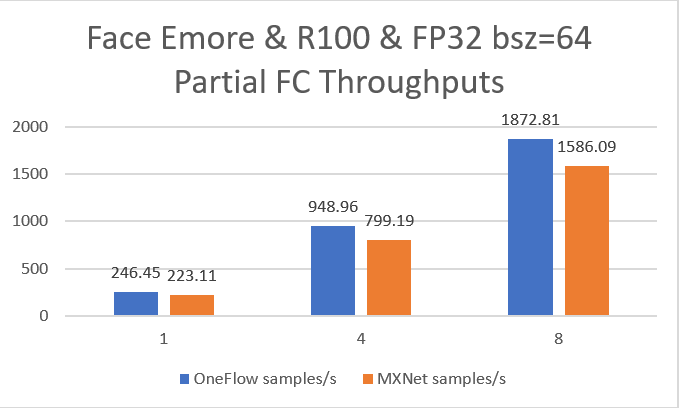
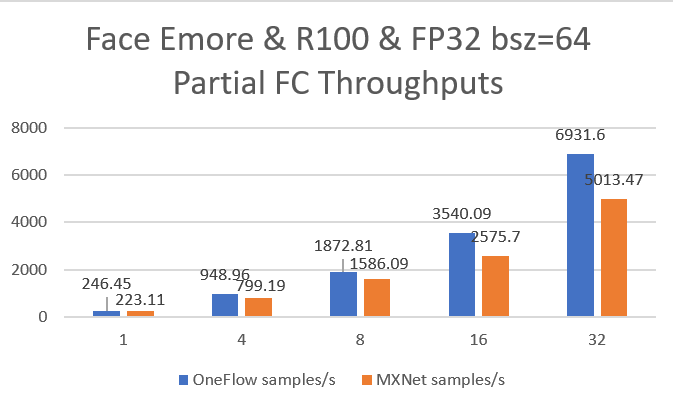
update report

diff --git a/reports/insightface/dlperf_insightface_test_report_v1_cn.md b/reports/insightface/dlperf_insightface_test_report_v1_cn.md
@@ -128,9 +128,9 @@ OneFlow 的实现与 MXNet 进行了严格对齐，主要包括：
 | 1        | 1                | 64                    | 246.45            | 223.11          |
 | 1        | 4                | 64                    | 948.96            | 799.19          |
 | 1        | 8                | 64                    | 1872.81           | 1586.09         |
-| 2        | 8                | 64                    | 3540.09           | 2677.79         |
-
-
+| 2        | 8                | 64                    | 3540.09           | 2575.7          |
+| 4        | 8                | 64                    | 6931.6            | 5013.47         |
+![ ](../imgs/emore_r100_fp32_b64_pf_en.png)
 
 **batch_size=max**
 
@@ -139,9 +139,9 @@ OneFlow 的实现与 MXNet 进行了严格对齐，主要包括：
 | 1        | 1                | 256.61                         | 232.56                       |
 | 1        | 4                | 990.82                         | 852.4                        |
 | 1        | 8                | 1962.76                        | 1644.42                      |
-| 2        | 8                | 3856.52                        |                              |
-
-
+| 2        | 8                | 3856.52                        | 2739.71                      |
+| 4        | 8                | 7564.74                        | 5570.42                      |
+![ ](../imgs/emore_r100_fp32_bmax_pf_en.png)
 
 
 ### Glint360k & R100 & FP32 Thoughputs

diff --git a/reports/insightface/dlperf_insightface_test_report_v1.md b/reports/insightface/dlperf_insightface_test_report_v1.md
@@ -130,7 +130,7 @@ In this report, num classes mean the number of face categories. In the tests, it
 | 1        | 4                | 64                    | 948.96            | 799.19          |
 | 1        | 8                | 64                    | 1872.81           | 1586.09         |
 | 2        | 8                | 64                    | 3540.09           | 2677.79         |
-
+| 4        | 8                | 64                    | 6931.6            | 5013.47         |
 ![ ](../imgs/emore_r100_fp32_b64_pf_en.png)
 
 **batch_size=max**
@@ -140,9 +140,9 @@ In this report, num classes mean the number of face categories. In the tests, it
 | 1        | 1                | 256.61                         | 232.56                       |
 | 1        | 4                | 990.82                         | 852.4                        |
 | 1        | 8                | 1962.76                        | 1644.42                      |
-| 2        | 8                | 3856.52                        |                              |
-
-
+| 2        | 8                | 3856.52                        | 2739.71                      |
+| 4        | 8                | 7564.74                        | 5570.42                      |
+![ ](../imgs/emore_r100_fp32_bmax_pf_en.png)
 
 ### Glint360k & R100 & FP32 Thoughputs
 
